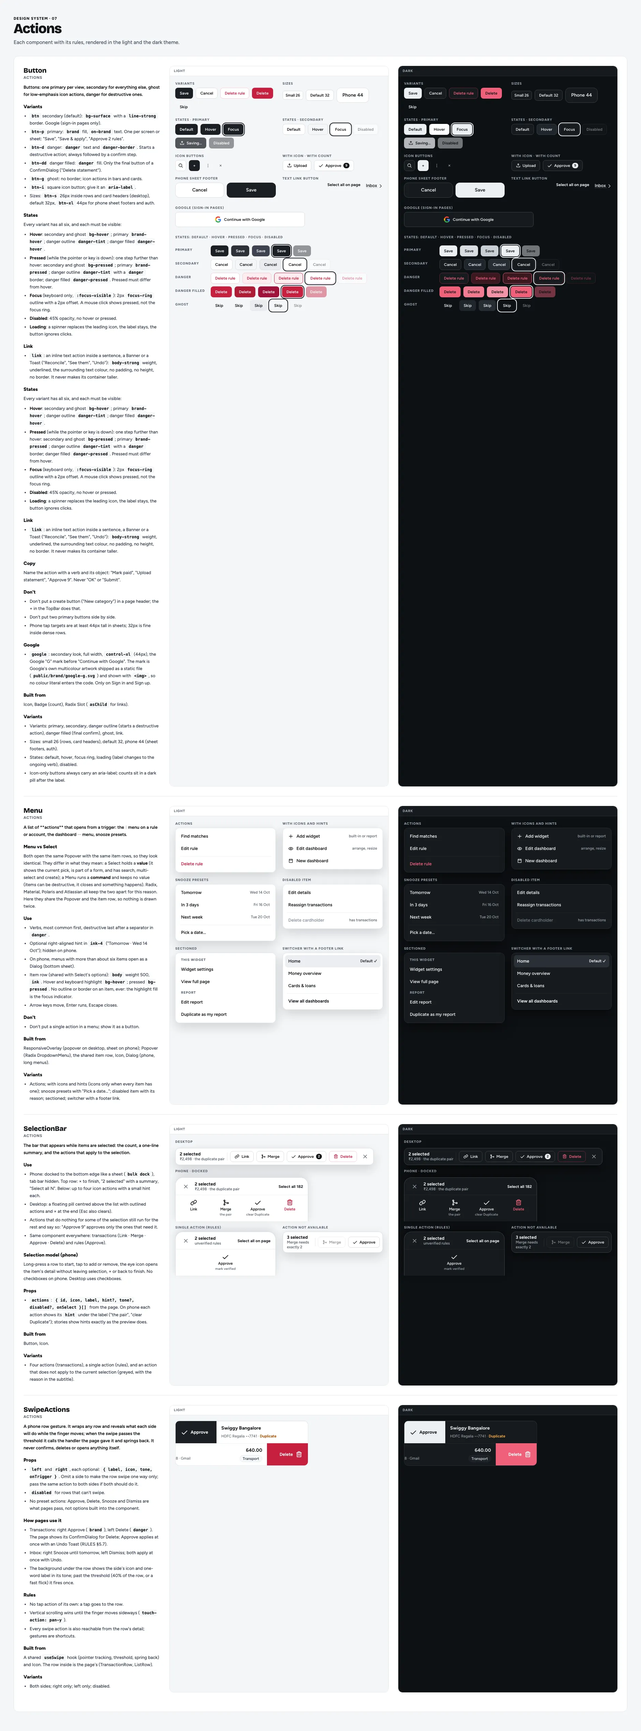
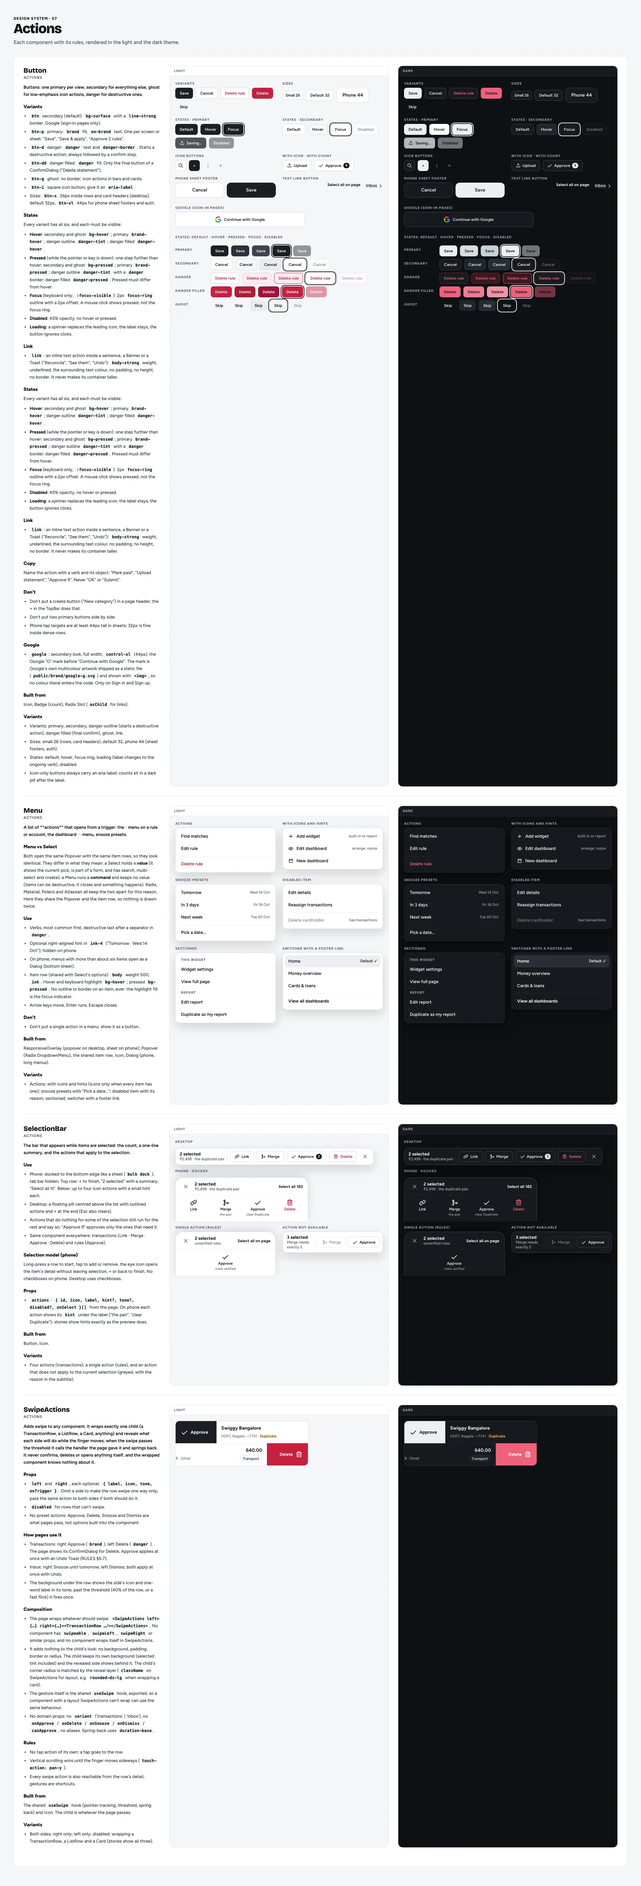
docs(ds): SwipeActions adds swipe to any component; behaviours wrap, never embed
RULES §5c.9; SwipeActions README (pure wrapper, no domain props, no look of
its own, useSwipe exported); TransactionRow/RuleCard drop swipe and use the
shared useLongPress hook. --no-verify: Antigravity has uncommitted work.

diff --git a/design-system/screens/ds-07-actions.dc.html b/design-system/screens/ds-07-actions.dc.html
@@ -476,7 +476,7 @@ table.t td{padding:9px 10px;border-bottom:1px solid var(--line-soft);vertical-al
 <li>Four actions (transactions), a single action (rules), and an action that does not apply to the current selection (greyed, with the reason in the subtitle).</li>
 </ul></div></div><div class="pvw th-light"><div class="pvl">Light</div><div class="fos" style="padding:16px;background:var(--bg-canvas);min-height:100%;display:flex;flex-direction:column;gap:12px;"><div style="font:800 10px/12px var(--font-text);letter-spacing:.08em;text-transform:uppercase;color:var(--ink-4)">Desktop</div><div class="bulk" style="align-self:flex-start"><div class="bc"><b>2 selected</b><span>₹2,498 · the duplicate pair</span></div><div class="bsep"></div><button class="ba"><svg viewBox="0 0 256 256" width="14" height="14" fill="currentColor" aria-hidden="true"><path d="M117.18,188.74a12,12,0,0,1,0,17l-5.12,5.12A58.26,58.26,0,0,1,70.6,228h0A58.62,58.62,0,0,1,29.14,127.92L63.89,93.17a58.64,58.64,0,0,1,98.56,28.11,12,12,0,1,1-23.37,5.44,34.65,34.65,0,0,0-58.22-16.58L46.11,144.89A34.62,34.62,0,0,0,70.57,204h0a34.41,34.41,0,0,0,24.49-10.14l5.11-5.12A12,12,0,0,1,117.18,188.74ZM226.83,45.17a58.65,58.65,0,0,0-82.93,0l-5.11,5.11a12,12,0,0,0,17,17l5.12-5.12a34.63,34.63,0,1,1,49,49L175.1,145.86A34.39,34.39,0,0,1,150.61,156h0a34.63,34.63,0,0,1-33.69-26.72,12,12,0,0,0-23.38,5.44A58.64,58.64,0,0,0,150.56,180h.05a58.28,58.28,0,0,0,41.47-17.17l34.75-34.75a58.62,58.62,0,0,0,0-82.91Z"/></svg>Link</button><button class="ba"><svg viewBox="0 0 256 256" width="14" height="14" fill="currentColor" aria-hidden="true"><path d="M208,108a36.05,36.05,0,0,0-33.38,22.54l-39-5.57a4,4,0,0,1-2.47-1.35L100.55,85.53A36,36,0,1,0,68,89.94v76.12a36,36,0,1,0,24,0V112.44l23,26.8a28,28,0,0,0,17.3,9.49l41.34,5.91A36,36,0,1,0,208,108ZM80,44A12,12,0,1,1,68,56,12,12,0,0,1,80,44Zm0,168a12,12,0,1,1,12-12A12,12,0,0,1,80,212Zm128-56a12,12,0,1,1,12-12A12,12,0,0,1,208,156Z"/></svg>Merge</button><button class="ba"><svg viewBox="0 0 256 256" width="14" height="14" fill="currentColor" aria-hidden="true"><path d="M232.49,80.49l-128,128a12,12,0,0,1-17,0l-56-56a12,12,0,1,1,17-17L96,183,215.51,63.51a12,12,0,0,1,17,17Z"/></svg>Approve <span class="cnt">2</span></button><button class="ba del"><svg viewBox="0 0 256 256" width="14" height="14" fill="currentColor" aria-hidden="true"><path d="M216,48H180V36A28,28,0,0,0,152,8H104A28,28,0,0,0,76,36V48H40a12,12,0,0,0,0,24h4V208a20,20,0,0,0,20,20H192a20,20,0,0,0,20-20V72h4a12,12,0,0,0,0-24ZM100,36a4,4,0,0,1,4-4h48a4,4,0,0,1,4,4V48H100Zm88,168H68V72H188ZM116,104v64a12,12,0,0,1-24,0V104a12,12,0,0,1,24,0Zm48,0v64a12,12,0,0,1-24,0V104a12,12,0,0,1,24,0Z"/></svg>Delete</button><button class="bx" aria-label="Clear selection"><svg viewBox="0 0 256 256" width="16" height="16" fill="currentColor" aria-hidden="true"><path d="M208.49,191.51a12,12,0,0,1-17,17L128,145,64.49,208.49a12,12,0,0,1-17-17L111,128,47.51,64.49a12,12,0,0,1,17-17L128,111l63.51-63.52a12,12,0,0,1,17,17L145,128Z"/></svg></button></div><div style="font:800 10px/12px var(--font-text);letter-spacing:.08em;text-transform:uppercase;color:var(--ink-4)">Phone · docked</div><div class="bulk dock" style="max-width:390px"><div class="brow"><button class="bx" aria-label="Clear selection"><svg viewBox="0 0 256 256" width="16" height="16" fill="currentColor" aria-hidden="true"><path d="M208.49,191.51a12,12,0,0,1-17,17L128,145,64.49,208.49a12,12,0,0,1-17-17L111,128,47.51,64.49a12,12,0,0,1,17-17L128,111l63.51-63.52a12,12,0,0,1,17,17L145,128Z"/></svg></button><div class="bc"><b>2 selected</b><span>₹2,498 · the duplicate pair</span></div><span class="blink">Select all 182</span></div><div class="bacts"><button class="ba"><svg viewBox="0 0 256 256" width="16" height="16" fill="currentColor" aria-hidden="true"><path d="M117.18,188.74a12,12,0,0,1,0,17l-5.12,5.12A58.26,58.26,0,0,1,70.6,228h0A58.62,58.62,0,0,1,29.14,127.92L63.89,93.17a58.64,58.64,0,0,1,98.56,28.11,12,12,0,1,1-23.37,5.44,34.65,34.65,0,0,0-58.22-16.58L46.11,144.89A34.62,34.62,0,0,0,70.57,204h0a34.41,34.41,0,0,0,24.49-10.14l5.11-5.12A12,12,0,0,1,117.18,188.74ZM226.83,45.17a58.65,58.65,0,0,0-82.93,0l-5.11,5.11a12,12,0,0,0,17,17l5.12-5.12a34.63,34.63,0,1,1,49,49L175.1,145.86A34.39,34.39,0,0,1,150.61,156h0a34.63,34.63,0,0,1-33.69-26.72,12,12,0,0,0-23.38,5.44A58.64,58.64,0,0,0,150.56,180h.05a58.28,58.28,0,0,0,41.47-17.17l34.75-34.75a58.62,58.62,0,0,0,0-82.91Z"/></svg>Link</button><button class="ba"><svg viewBox="0 0 256 256" width="16" height="16" fill="currentColor" aria-hidden="true"><path d="M208,108a36.05,36.05,0,0,0-33.38,22.54l-39-5.57a4,4,0,0,1-2.47-1.35L100.55,85.53A36,36,0,1,0,68,89.94v76.12a36,36,0,1,0,24,0V112.44l23,26.8a28,28,0,0,0,17.3,9.49l41.34,5.91A36,36,0,1,0,208,108ZM80,44A12,12,0,1,1,68,56,12,12,0,0,1,80,44Zm0,168a12,12,0,1,1,12-12A12,12,0,0,1,80,212Zm128-56a12,12,0,1,1,12-12A12,12,0,0,1,208,156Z"/></svg>Merge<em>the pair</em></button><button class="ba"><svg viewBox="0 0 256 256" width="16" height="16" fill="currentColor" aria-hidden="true"><path d="M232.49,80.49l-128,128a12,12,0,0,1-17,0l-56-56a12,12,0,1,1,17-17L96,183,215.51,63.51a12,12,0,0,1,17,17Z"/></svg>Approve<em>clear Duplicate</em></button><button class="ba del"><svg viewBox="0 0 256 256" width="16" height="16" fill="currentColor" aria-hidden="true"><path d="M216,48H180V36A28,28,0,0,0,152,8H104A28,28,0,0,0,76,36V48H40a12,12,0,0,0,0,24h4V208a20,20,0,0,0,20,20H192a20,20,0,0,0,20-20V72h4a12,12,0,0,0,0-24ZM100,36a4,4,0,0,1,4-4h48a4,4,0,0,1,4,4V48H100Zm88,168H68V72H188ZM116,104v64a12,12,0,0,1-24,0V104a12,12,0,0,1,24,0Zm48,0v64a12,12,0,0,1-24,0V104a12,12,0,0,1,24,0Z"/></svg>Delete</button></div></div><div class="vgrid" style="grid-template-columns:repeat(2,minmax(0,1fr))"><div style="min-width:0"><div class="vlab">Single action (rules)</div><div class="bulk dock"><div class="brow"><button class="bx" aria-label="Clear"><svg viewBox="0 0 256 256" width="16" height="16" fill="currentColor" aria-hidden="true"><path d="M208.49,191.51a12,12,0,0,1-17,17L128,145,64.49,208.49a12,12,0,0,1-17-17L111,128,47.51,64.49a12,12,0,0,1,17-17L128,111l63.51-63.52a12,12,0,0,1,17,17L145,128Z"/></svg></button><div class="bc"><b>2 selected</b><span>unverified rules</span></div><span class="blink">Select all on page</span></div><div class="bacts" style="grid-template-columns:1fr"><button class="ba"><svg viewBox="0 0 256 256" width="16" height="16" fill="currentColor" aria-hidden="true"><path d="M232.49,80.49l-128,128a12,12,0,0,1-17,0l-56-56a12,12,0,1,1,17-17L96,183,215.51,63.51a12,12,0,0,1,17,17Z"/></svg>Approve<em>mark verified</em></button></div></div></div><div style="min-width:0"><div class="vlab">Action not available</div><div class="bulk"><div class="bc"><b>3 selected</b><span>Merge needs exactly 2</span></div><div class="bsep"></div><button class="ba" style="opacity:.45"><svg viewBox="0 0 256 256" width="14" height="14" fill="currentColor" aria-hidden="true"><path d="M208,108a36.05,36.05,0,0,0-33.38,22.54l-39-5.57a4,4,0,0,1-2.47-1.35L100.55,85.53A36,36,0,1,0,68,89.94v76.12a36,36,0,1,0,24,0V112.44l23,26.8a28,28,0,0,0,17.3,9.49l41.34,5.91A36,36,0,1,0,208,108ZM80,44A12,12,0,1,1,68,56,12,12,0,0,1,80,44Zm0,168a12,12,0,1,1,12-12A12,12,0,0,1,80,212Zm128-56a12,12,0,1,1,12-12A12,12,0,0,1,208,156Z"/></svg>Merge</button><button class="ba"><svg viewBox="0 0 256 256" width="14" height="14" fill="currentColor" aria-hidden="true"><path d="M232.49,80.49l-128,128a12,12,0,0,1-17,0l-56-56a12,12,0,1,1,17-17L96,183,215.51,63.51a12,12,0,0,1,17,17Z"/></svg>Approve</button></div></div></div></div>
 </div><div class="pvw th-dark"><div class="pvl">Dark</div><div class="fos" style="padding:16px;background:var(--bg-canvas);min-height:100%;display:flex;flex-direction:column;gap:12px;"><div style="font:800 10px/12px var(--font-text);letter-spacing:.08em;text-transform:uppercase;color:var(--ink-4)">Desktop</div><div class="bulk" style="align-self:flex-start"><div class="bc"><b>2 selected</b><span>₹2,498 · the duplicate pair</span></div><div class="bsep"></div><button class="ba"><svg viewBox="0 0 256 256" width="14" height="14" fill="currentColor" aria-hidden="true"><path d="M117.18,188.74a12,12,0,0,1,0,17l-5.12,5.12A58.26,58.26,0,0,1,70.6,228h0A58.62,58.62,0,0,1,29.14,127.92L63.89,93.17a58.64,58.64,0,0,1,98.56,28.11,12,12,0,1,1-23.37,5.44,34.65,34.65,0,0,0-58.22-16.58L46.11,144.89A34.62,34.62,0,0,0,70.57,204h0a34.41,34.41,0,0,0,24.49-10.14l5.11-5.12A12,12,0,0,1,117.18,188.74ZM226.83,45.17a58.65,58.65,0,0,0-82.93,0l-5.11,5.11a12,12,0,0,0,17,17l5.12-5.12a34.63,34.63,0,1,1,49,49L175.1,145.86A34.39,34.39,0,0,1,150.61,156h0a34.63,34.63,0,0,1-33.69-26.72,12,12,0,0,0-23.38,5.44A58.64,58.64,0,0,0,150.56,180h.05a58.28,58.28,0,0,0,41.47-17.17l34.75-34.75a58.62,58.62,0,0,0,0-82.91Z"/></svg>Link</button><button class="ba"><svg viewBox="0 0 256 256" width="14" height="14" fill="currentColor" aria-hidden="true"><path d="M208,108a36.05,36.05,0,0,0-33.38,22.54l-39-5.57a4,4,0,0,1-2.47-1.35L100.55,85.53A36,36,0,1,0,68,89.94v76.12a36,36,0,1,0,24,0V112.44l23,26.8a28,28,0,0,0,17.3,9.49l41.34,5.91A36,36,0,1,0,208,108ZM80,44A12,12,0,1,1,68,56,12,12,0,0,1,80,44Zm0,168a12,12,0,1,1,12-12A12,12,0,0,1,80,212Zm128-56a12,12,0,1,1,12-12A12,12,0,0,1,208,156Z"/></svg>Merge</button><button class="ba"><svg viewBox="0 0 256 256" width="14" height="14" fill="currentColor" aria-hidden="true"><path d="M232.49,80.49l-128,128a12,12,0,0,1-17,0l-56-56a12,12,0,1,1,17-17L96,183,215.51,63.51a12,12,0,0,1,17,17Z"/></svg>Approve <span class="cnt">2</span></button><button class="ba del"><svg viewBox="0 0 256 256" width="14" height="14" fill="currentColor" aria-hidden="true"><path d="M216,48H180V36A28,28,0,0,0,152,8H104A28,28,0,0,0,76,36V48H40a12,12,0,0,0,0,24h4V208a20,20,0,0,0,20,20H192a20,20,0,0,0,20-20V72h4a12,12,0,0,0,0-24ZM100,36a4,4,0,0,1,4-4h48a4,4,0,0,1,4,4V48H100Zm88,168H68V72H188ZM116,104v64a12,12,0,0,1-24,0V104a12,12,0,0,1,24,0Zm48,0v64a12,12,0,0,1-24,0V104a12,12,0,0,1,24,0Z"/></svg>Delete</button><button class="bx" aria-label="Clear selection"><svg viewBox="0 0 256 256" width="16" height="16" fill="currentColor" aria-hidden="true"><path d="M208.49,191.51a12,12,0,0,1-17,17L128,145,64.49,208.49a12,12,0,0,1-17-17L111,128,47.51,64.49a12,12,0,0,1,17-17L128,111l63.51-63.52a12,12,0,0,1,17,17L145,128Z"/></svg></button></div><div style="font:800 10px/12px var(--font-text);letter-spacing:.08em;text-transform:uppercase;color:var(--ink-4)">Phone · docked</div><div class="bulk dock" style="max-width:390px"><div class="brow"><button class="bx" aria-label="Clear selection"><svg viewBox="0 0 256 256" width="16" height="16" fill="currentColor" aria-hidden="true"><path d="M208.49,191.51a12,12,0,0,1-17,17L128,145,64.49,208.49a12,12,0,0,1-17-17L111,128,47.51,64.49a12,12,0,0,1,17-17L128,111l63.51-63.52a12,12,0,0,1,17,17L145,128Z"/></svg></button><div class="bc"><b>2 selected</b><span>₹2,498 · the duplicate pair</span></div><span class="blink">Select all 182</span></div><div class="bacts"><button class="ba"><svg viewBox="0 0 256 256" width="16" height="16" fill="currentColor" aria-hidden="true"><path d="M117.18,188.74a12,12,0,0,1,0,17l-5.12,5.12A58.26,58.26,0,0,1,70.6,228h0A58.62,58.62,0,0,1,29.14,127.92L63.89,93.17a58.64,58.64,0,0,1,98.56,28.11,12,12,0,1,1-23.37,5.44,34.65,34.65,0,0,0-58.22-16.58L46.11,144.89A34.62,34.62,0,0,0,70.57,204h0a34.41,34.41,0,0,0,24.49-10.14l5.11-5.12A12,12,0,0,1,117.18,188.74ZM226.83,45.17a58.65,58.65,0,0,0-82.93,0l-5.11,5.11a12,12,0,0,0,17,17l5.12-5.12a34.63,34.63,0,1,1,49,49L175.1,145.86A34.39,34.39,0,0,1,150.61,156h0a34.63,34.63,0,0,1-33.69-26.72,12,12,0,0,0-23.38,5.44A58.64,58.64,0,0,0,150.56,180h.05a58.28,58.28,0,0,0,41.47-17.17l34.75-34.75a58.62,58.62,0,0,0,0-82.91Z"/></svg>Link</button><button class="ba"><svg viewBox="0 0 256 256" width="16" height="16" fill="currentColor" aria-hidden="true"><path d="M208,108a36.05,36.05,0,0,0-33.38,22.54l-39-5.57a4,4,0,0,1-2.47-1.35L100.55,85.53A36,36,0,1,0,68,89.94v76.12a36,36,0,1,0,24,0V112.44l23,26.8a28,28,0,0,0,17.3,9.49l41.34,5.91A36,36,0,1,0,208,108ZM80,44A12,12,0,1,1,68,56,12,12,0,0,1,80,44Zm0,168a12,12,0,1,1,12-12A12,12,0,0,1,80,212Zm128-56a12,12,0,1,1,12-12A12,12,0,0,1,208,156Z"/></svg>Merge<em>the pair</em></button><button class="ba"><svg viewBox="0 0 256 256" width="16" height="16" fill="currentColor" aria-hidden="true"><path d="M232.49,80.49l-128,128a12,12,0,0,1-17,0l-56-56a12,12,0,1,1,17-17L96,183,215.51,63.51a12,12,0,0,1,17,17Z"/></svg>Approve<em>clear Duplicate</em></button><button class="ba del"><svg viewBox="0 0 256 256" width="16" height="16" fill="currentColor" aria-hidden="true"><path d="M216,48H180V36A28,28,0,0,0,152,8H104A28,28,0,0,0,76,36V48H40a12,12,0,0,0,0,24h4V208a20,20,0,0,0,20,20H192a20,20,0,0,0,20-20V72h4a12,12,0,0,0,0-24ZM100,36a4,4,0,0,1,4-4h48a4,4,0,0,1,4,4V48H100Zm88,168H68V72H188ZM116,104v64a12,12,0,0,1-24,0V104a12,12,0,0,1,24,0Zm48,0v64a12,12,0,0,1-24,0V104a12,12,0,0,1,24,0Z"/></svg>Delete</button></div></div><div class="vgrid" style="grid-template-columns:repeat(2,minmax(0,1fr))"><div style="min-width:0"><div class="vlab">Single action (rules)</div><div class="bulk dock"><div class="brow"><button class="bx" aria-label="Clear"><svg viewBox="0 0 256 256" width="16" height="16" fill="currentColor" aria-hidden="true"><path d="M208.49,191.51a12,12,0,0,1-17,17L128,145,64.49,208.49a12,12,0,0,1-17-17L111,128,47.51,64.49a12,12,0,0,1,17-17L128,111l63.51-63.52a12,12,0,0,1,17,17L145,128Z"/></svg></button><div class="bc"><b>2 selected</b><span>unverified rules</span></div><span class="blink">Select all on page</span></div><div class="bacts" style="grid-template-columns:1fr"><button class="ba"><svg viewBox="0 0 256 256" width="16" height="16" fill="currentColor" aria-hidden="true"><path d="M232.49,80.49l-128,128a12,12,0,0,1-17,0l-56-56a12,12,0,1,1,17-17L96,183,215.51,63.51a12,12,0,0,1,17,17Z"/></svg>Approve<em>mark verified</em></button></div></div></div><div style="min-width:0"><div class="vlab">Action not available</div><div class="bulk"><div class="bc"><b>3 selected</b><span>Merge needs exactly 2</span></div><div class="bsep"></div><button class="ba" style="opacity:.45"><svg viewBox="0 0 256 256" width="14" height="14" fill="currentColor" aria-hidden="true"><path d="M208,108a36.05,36.05,0,0,0-33.38,22.54l-39-5.57a4,4,0,0,1-2.47-1.35L100.55,85.53A36,36,0,1,0,68,89.94v76.12a36,36,0,1,0,24,0V112.44l23,26.8a28,28,0,0,0,17.3,9.49l41.34,5.91A36,36,0,1,0,208,108ZM80,44A12,12,0,1,1,68,56,12,12,0,0,1,80,44Zm0,168a12,12,0,1,1,12-12A12,12,0,0,1,80,212Zm128-56a12,12,0,1,1,12-12A12,12,0,0,1,208,156Z"/></svg>Merge</button><button class="ba"><svg viewBox="0 0 256 256" width="14" height="14" fill="currentColor" aria-hidden="true"><path d="M232.49,80.49l-128,128a12,12,0,0,1-17,0l-56-56a12,12,0,1,1,17-17L96,183,215.51,63.51a12,12,0,0,1,17,17Z"/></svg>Approve</button></div></div></div></div>
-</div></div><div class="comp"><div><div class="cn">SwipeActions</div><div class="cg">Actions</div><div class="md"><p style="color:var(--ink);font-weight:600">A phone row gesture. It wraps any row and reveals what each side will do while the finger moves; when the swipe passes the threshold it calls the handler the page gave it and springs back. It never confirms, deletes or opens anything itself.</p><h3>Props</h3>
+</div></div><div class="comp"><div><div class="cn">SwipeActions</div><div class="cg">Actions</div><div class="md"><p style="color:var(--ink);font-weight:600">Adds swipe to any component. It wraps exactly one child (a TransactionRow, a ListRow, a Card, anything) and reveals what each side will do while the finger moves; when the swipe passes the threshold it calls the handler the page gave it and springs back. It never confirms, deletes or opens anything itself, and the wrapped component knows nothing about it.</p><h3>Props</h3>
 <ul>
 <li><code>left</code> and <code>right</code>, each optional: <code>{ label, icon, tone, onTrigger }</code>. Omit a side to make the row swipe one way only; pass the same action to both sides if both should do it.</li>
 <li><code>disabled</code> for rows that can't swipe.</li>
@@ -488,6 +488,13 @@ table.t td{padding:9px 10px;border-bottom:1px solid var(--line-soft);vertical-al
 <li>Inbox: right Snooze until tomorrow, left Dismiss; both apply at once with Undo.</li>
 <li>The background under the row shows the side's icon and one-word label in its tone; past the threshold (40% of the row, or a fast flick) it fires once.</li>
 </ul>
+<h3>Composition</h3>
+<ul>
+<li>The page wraps whatever should swipe: <code>&lt;SwipeActions left={…} right={…}&gt;&lt;TransactionRow …/&gt;&lt;/SwipeActions&gt;</code>. No component has <code>swipeable</code>, <code>swipeLeft</code>, <code>swipeRight</code> or similar props, and no component wraps itself in SwipeActions.</li>
+<li>It adds nothing to the child's look: no background, padding, border or radius. The child keeps its own background (selected tint included) and the revealed side shows behind it. The child's corner radius is matched by the reveal layer (<code>className</code> on SwipeActions for layout, e.g. <code>rounded-ds-lg</code> when wrapping a card).</li>
+<li>The gesture itself is the shared <code>useSwipe</code> hook, exported, so a component with a layout SwipeActions can't wrap can use the same behaviour.</li>
+<li>No domain props: no <code>variant</code> ('transactions' | 'inbox'), no <code>onApprove</code> / <code>onDelete</code> / <code>onSnooze</code> / <code>onDismiss</code> / <code>canApprove</code>, no aliases. Spring-back uses <code>duration-base</code>.</li>
+</ul>
 <h3>Rules</h3>
 <ul>
 <li>No tap action of its own: a tap goes to the row.</li>
@@ -495,16 +502,16 @@ table.t td{padding:9px 10px;border-bottom:1px solid var(--line-soft);vertical-al
 <li>Every swipe action is also reachable from the row's detail; gestures are shortcuts.</li>
 </ul>
 <h3>Built from</h3>
-<p>A shared <code>useSwipe</code> hook (pointer tracking, threshold, spring back) and Icon. The row inside is the page's (TransactionRow, ListRow).</p>
+<p>The shared <code>useSwipe</code> hook (pointer tracking, threshold, spring back) and Icon. The child is whatever the page passes.</p>
 <h3>Variants</h3>
 <ul>
-<li>Both sides; right only; left only; disabled.</li>
+<li>Both sides; right only; left only; disabled; wrapping a TransactionRow, a ListRow and a Card (stories show all three).</li>
 </ul></div></div><div class="pvw th-light"><div class="pvl">Light</div><div class="fos" style="padding:16px;background:var(--bg-canvas);min-height:100%;display:flex;flex-direction:column;gap:12px;"><div class="card" style="max-width:390px"><div class="swipe-trig"><div class="bgL"><svg class="ic ic-lg " viewBox="0 0 256 256" width="20" height="20" fill="currentColor" aria-hidden="true"><path d="M232.49,80.49l-128,128a12,12,0,0,1-17,0l-56-56a12,12,0,1,1,17-17L96,183,215.51,63.51a12,12,0,0,1,17,17Z"/></svg>Approve</div><div class="fg" style="transform:translateX(120px)"><div class="tx"><div class="m">Swiggy Bangalore</div><div class="n">1,249.00</div><div class="s">HDFC Regalia ••7741 · <span class="rv">Duplicate</span></div><div class="b"><span class="cat">Food &amp; dining</span></div></div></div></div><div class="swipe-trig"><div class="bgR">Delete<svg class="ic ic-lg " viewBox="0 0 256 256" width="20" height="20" fill="currentColor" aria-hidden="true"><path d="M216,48H180V36A28,28,0,0,0,152,8H104A28,28,0,0,0,76,36V48H40a12,12,0,0,0,0,24h4V208a20,20,0,0,0,20,20H192a20,20,0,0,0,20-20V72h4a12,12,0,0,0,0-24ZM100,36a4,4,0,0,1,4-4h48a4,4,0,0,1,4,4V48H100Zm88,168H68V72H188ZM116,104v64a12,12,0,0,1-24,0V104a12,12,0,0,1,24,0Zm48,0v64a12,12,0,0,1-24,0V104a12,12,0,0,1,24,0Z"/></svg></div><div class="fg" style="transform:translateX(-120px)"><div class="tx"><div class="m">Uber India</div><div class="n">640.00</div><div class="s">Amex Platinum ••1008 · Gmail</div><div class="b"><span class="cat">Transport</span></div></div></div></div></div></div>
 </div><div class="pvw th-dark"><div class="pvl">Dark</div><div class="fos" style="padding:16px;background:var(--bg-canvas);min-height:100%;display:flex;flex-direction:column;gap:12px;"><div class="card" style="max-width:390px"><div class="swipe-trig"><div class="bgL"><svg class="ic ic-lg " viewBox="0 0 256 256" width="20" height="20" fill="currentColor" aria-hidden="true"><path d="M232.49,80.49l-128,128a12,12,0,0,1-17,0l-56-56a12,12,0,1,1,17-17L96,183,215.51,63.51a12,12,0,0,1,17,17Z"/></svg>Approve</div><div class="fg" style="transform:translateX(120px)"><div class="tx"><div class="m">Swiggy Bangalore</div><div class="n">1,249.00</div><div class="s">HDFC Regalia ••7741 · <span class="rv">Duplicate</span></div><div class="b"><span class="cat">Food &amp; dining</span></div></div></div></div><div class="swipe-trig"><div class="bgR">Delete<svg class="ic ic-lg " viewBox="0 0 256 256" width="20" height="20" fill="currentColor" aria-hidden="true"><path d="M216,48H180V36A28,28,0,0,0,152,8H104A28,28,0,0,0,76,36V48H40a12,12,0,0,0,0,24h4V208a20,20,0,0,0,20,20H192a20,20,0,0,0,20-20V72h4a12,12,0,0,0,0-24ZM100,36a4,4,0,0,1,4-4h48a4,4,0,0,1,4,4V48H100Zm88,168H68V72H188ZM116,104v64a12,12,0,0,1-24,0V104a12,12,0,0,1,24,0Zm48,0v64a12,12,0,0,1-24,0V104a12,12,0,0,1,24,0Z"/></svg></div><div class="fg" style="transform:translateX(-120px)"><div class="tx"><div class="m">Uber India</div><div class="n">640.00</div><div class="s">Amex Platinum ••1008 · Gmail</div><div class="b"><span class="cat">Transport</span></div></div></div></div></div></div>
 </div></div></div></div></div>
 
 </x-dc>
-<script type="text/x-dc" data-dc-script data-props='{"$preview":{"width":1880,"height":5061}}'>
+<script type="text/x-dc" data-dc-script data-props='{"$preview":{"width":1880,"height":5514}}'>
 class Component extends DCLogic {
   renderVals() { return {}; }
 }

diff --git a/design-system/screens/ds-09-data.dc.html b/design-system/screens/ds-09-data.dc.html
@@ -439,8 +439,13 @@ table.t td{padding:9px 10px;border-bottom:1px solid var(--line-soft);vertical-al
 <ul>
 <li>Every word on the row comes from the page, including the unset-category label ("Set category").</li>
 </ul>
+<h3>Not here</h3>
+<ul>
+<li>Swipe: the page wraps the row in SwipeActions. The row has no swipe props.</li>
+<li>Long-press detection is the shared <code>useLongPress</code> hook (touch input only); the row takes <code>selected</code> / <code>onSelectedChange</code> and draws the selected look.</li>
+</ul>
 <h3>Built from</h3>
-<p>CategoryChip, StatusWords, Checkbox (desktop selection column), Icon (eye in selection). On phone, SwipeActions wraps it.</p></div></div><div class="pvw th-light"><div class="pvl">Light</div><div class="fos" style="padding:16px;background:var(--bg-canvas);min-height:100%;display:flex;flex-direction:column;gap:12px;"><div class="card" style="max-width:390px">
+<p>CategoryChip, StatusWords, Checkbox (desktop selection column), Icon (eye in selection). Long-press via the shared <code>useLongPress</code> hook. Pages wrap it in SwipeActions for swipe.</p></div></div><div class="pvw th-light"><div class="pvl">Light</div><div class="fos" style="padding:16px;background:var(--bg-canvas);min-height:100%;display:flex;flex-direction:column;gap:12px;"><div class="card" style="max-width:390px">
 <div class="dg">12 Oct <span>Mon</span></div>
 <div class="tx"><div class="m">BigBasket</div><div class="n">3,600.00<small>bal ₹61,757</small></div><div class="s">HDFC Bank Savings · <span class="pv">Statement</span></div><div class="b"><span class="cat">Groceries</span></div></div>
 <div class="tx"><div class="m">Salary · Bolt Technologies</div><div class="n pos">+2,15,000.00<small>bal ₹5,61,400</small></div><div class="s">HDFC Bank Savings · <span class="pv">Statement</span></div><div class="b"><span class="cat">Salary</span></div></div>
@@ -473,6 +478,10 @@ table.t td{padding:9px 10px;border-bottom:1px solid var(--line-soft);vertical-al
 <h3>Props</h3>
 <ul>
 <li>The card draws a rule the page hands it; its ⋮ items (Find matches, Edit rule, Delete rule) and the Approve action come from the page as props, with their labels.</li>
+</ul>
+<h3>Not here</h3>
+<ul>
+<li>Long-press detection is the shared <code>useLongPress</code> hook; swipe, if a page wants it, is SwipeActions around the card.</li>
 </ul>
 <h3>Built from</h3>
 <p>Card, StatusWords, CategoryChip, Menu, Button, Checkbox (desktop selection).</p>
@@ -587,7 +596,7 @@ table.t td{padding:9px 10px;border-bottom:1px solid var(--line-soft);vertical-al
 </div></div></div></div></div>
 
 </x-dc>
-<script type="text/x-dc" data-dc-script data-props='{"$preview":{"width":1880,"height":8131}}'>
+<script type="text/x-dc" data-dc-script data-props='{"$preview":{"width":1880,"height":8387}}'>
 class Component extends DCLogic {
   renderVals() { return {}; }
 }

diff --git a/design-system/components/SwipeActions/README.md b/design-system/components/SwipeActions/README.md
@@ -1,6 +1,6 @@
 # SwipeActions
 
-A phone row gesture. It wraps any row and reveals what each side will do while the finger moves; when the swipe passes the threshold it calls the handler the page gave it and springs back. It never confirms, deletes or opens anything itself.
+Adds swipe to any component. It wraps exactly one child (a TransactionRow, a ListRow, a Card, anything) and reveals what each side will do while the finger moves; when the swipe passes the threshold it calls the handler the page gave it and springs back. It never confirms, deletes or opens anything itself, and the wrapped component knows nothing about it.
 
 ## Props
 - `left` and `right`, each optional: `{ label, icon, tone, onTrigger }`. Omit a side to make the row swipe one way only; pass the same action to both sides if both should do it.
@@ -12,13 +12,19 @@ A phone row gesture. It wraps any row and reveals what each side will do while t
 - Inbox: right Snooze until tomorrow, left Dismiss; both apply at once with Undo.
 - The background under the row shows the side's icon and one-word label in its tone; past the threshold (40% of the row, or a fast flick) it fires once.
 
+## Composition
+- The page wraps whatever should swipe: `<SwipeActions left={…} right={…}><TransactionRow …/></SwipeActions>`. No component has `swipeable`, `swipeLeft`, `swipeRight` or similar props, and no component wraps itself in SwipeActions.
+- It adds nothing to the child's look: no background, padding, border or radius. The child keeps its own background (selected tint included) and the revealed side shows behind it. The child's corner radius is matched by the reveal layer (`className` on SwipeActions for layout, e.g. `rounded-ds-lg` when wrapping a card).
+- The gesture itself is the shared `useSwipe` hook, exported, so a component with a layout SwipeActions can't wrap can use the same behaviour.
+- No domain props: no `variant` ('transactions' | 'inbox'), no `onApprove` / `onDelete` / `onSnooze` / `onDismiss` / `canApprove`, no aliases. Spring-back uses `duration-base`.
+
 ## Rules
 - No tap action of its own: a tap goes to the row.
 - Vertical scrolling wins until the finger moves sideways (`touch-action: pan-y`).
 - Every swipe action is also reachable from the row's detail; gestures are shortcuts.
 
 ## Built from
-A shared `useSwipe` hook (pointer tracking, threshold, spring back) and Icon. The row inside is the page's (TransactionRow, ListRow).
+The shared `useSwipe` hook (pointer tracking, threshold, spring back) and Icon. The child is whatever the page passes.
 
 ## Variants
-- Both sides; right only; left only; disabled.
+- Both sides; right only; left only; disabled; wrapping a TransactionRow, a ListRow and a Card (stories show all three).

diff --git a/design-system/RULES.md b/design-system/RULES.md
@@ -115,16 +115,17 @@ These are the rules a mature design system (Radix, Material, Polaris, Atlassian)
    Every stateful component works both controlled and uncontrolled. Never `onChange` for a value, never `isOpen`.
 7. **Events are named for what the user did to the component**, not what the app does with it: `onSelect`, `onTrigger`, `onRemove`, `onOpenDetail`. Never `onApprove`, `onEditRule`, `onSetCategory`. Actions the app defines arrive as data (`actions={[{ id, label, icon, onSelect }]}`).
 8. **One name per prop.** No aliases, no "legacy" or "backwards compatible" props.
-9. **Composition:**
+9. **Behaviours wrap, they don't embed.** Swipe, long-press and drag are added from outside, by a wrapper component (SwipeActions) or a shared hook (`useSwipe`, `useLongPress`, `useSheetDrag`). No component carries props like `swipeable` or `swipeLeft`, and none wraps itself in a behaviour. Any component can be made swipeable by the page wrapping it.
+10. **Composition:**
    - polymorphism through `asChild`;
    - compound parts as `Name.Part` (`Dialog.Footer`, `Card.Header`);
    - content through slots (`trigger`, `actions`, `footer`);
    - every component forwards its ref, spreads native props, and takes `className` for layout only.
-10. **Content comes from props** (§5b.6). **States are visible** (§5b.7). **Server or client on purpose** (§5b.8).
+11. **Content comes from props** (§5b.6). **States are visible** (§5b.7). **Server or client on purpose** (§5b.8).
 
 **Proof**
-11. Each README lists **Props** (with the names above), **Variants** and **Built from**. Stories are args-driven and interactive (§5a). Tests cover behaviour.
-12. `check-ui.mjs` enforces what can be checked mechanically:
+12. Each README lists **Props** (with the names above), **Variants** and **Built from**. Stories are args-driven and interactive (§5a). Tests cover behaviour.
+13. `check-ui.mjs` enforces what can be checked mechanically:
     - viewport hooks outside ResponsiveOverlay;
     - `phone` / `desktop` variant props;
     - old imports;

diff --git a/design-system/components/TransactionRow/README.md b/design-system/components/TransactionRow/README.md
@@ -22,5 +22,9 @@ Selected (`brand-tint` with a 3px `brand` stripe), monitored (`watch-tint` with 
 ## Props
 - Every word on the row comes from the page, including the unset-category label ("Set category").
 
+## Not here
+- Swipe: the page wraps the row in SwipeActions. The row has no swipe props.
+- Long-press detection is the shared `useLongPress` hook (touch input only); the row takes `selected` / `onSelectedChange` and draws the selected look.
+
 ## Built from
-CategoryChip, StatusWords, Checkbox (desktop selection column), Icon (eye in selection). On phone, SwipeActions wraps it.
+CategoryChip, StatusWords, Checkbox (desktop selection column), Icon (eye in selection). Long-press via the shared `useLongPress` hook. Pages wrap it in SwipeActions for swipe.

diff --git a/design-system/components/RuleCard/README.md b/design-system/components/RuleCard/README.md
@@ -13,6 +13,9 @@ Long-press starts it. Selected cards turn `brand-tint` with a `brand` outline; o
 ## Props
 - The card draws a rule the page hands it; its ⋮ items (Find matches, Edit rule, Delete rule) and the Approve action come from the page as props, with their labels.
 
+## Not here
+- Long-press detection is the shared `useLongPress` hook; swipe, if a page wants it, is SwipeActions around the card.
+
 ## Built from
 Card, StatusWords, CategoryChip, Menu, Button, Checkbox (desktop selection).
 
